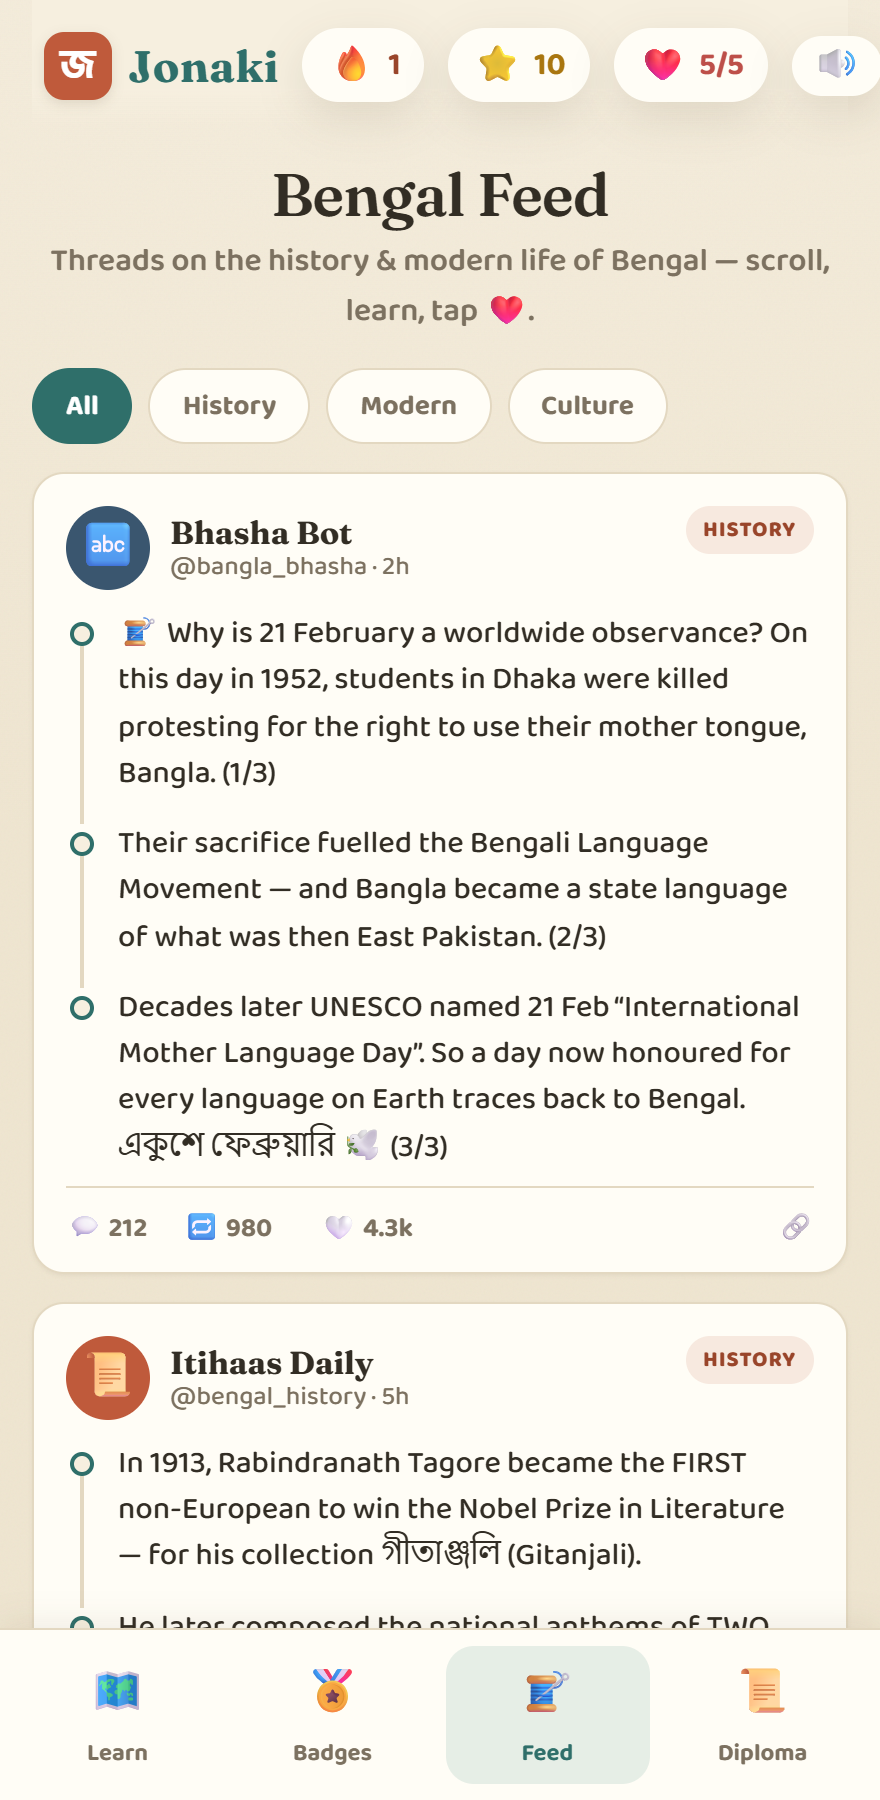
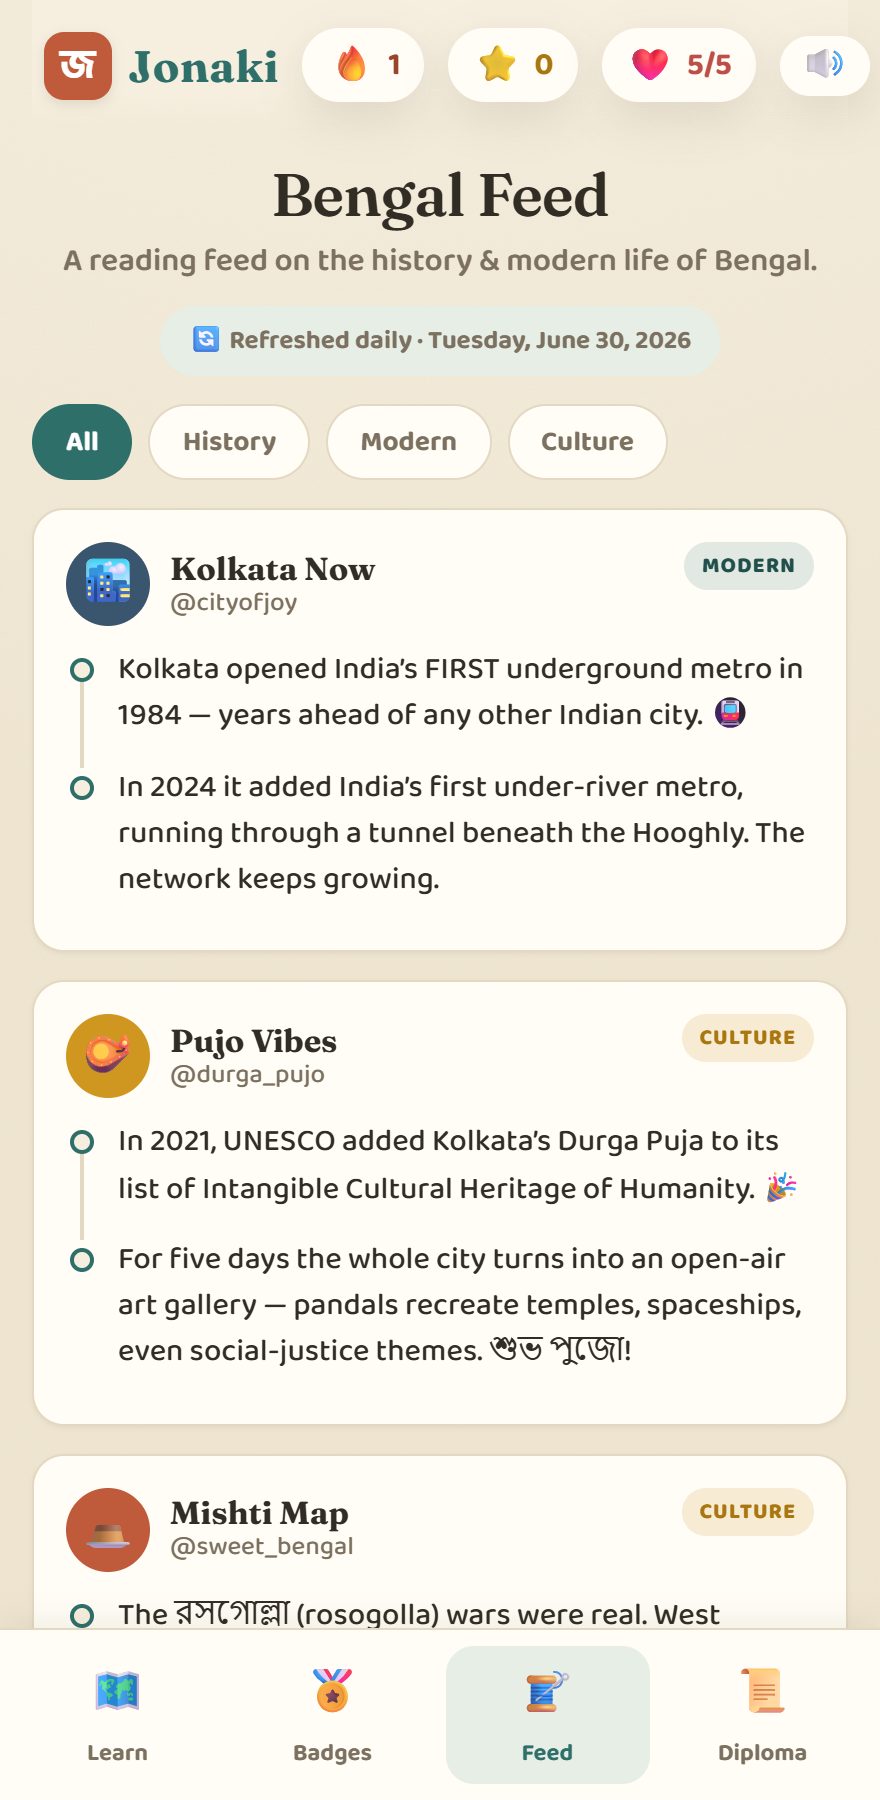
Feed: read-only cards + daily reshuffle; finalize Pages config & README

Changed region(s): [[0.0307, 0.1244, 0.9818, 0.9022], [0.6136, 0.0, 1.0, 0.0622]]

diff --git a/src/components/Feed.jsx b/src/components/Feed.jsx
@@ -1,13 +1,28 @@
-import { useState } from 'react'
+import { useMemo, useState } from 'react'
 import { THREADS, FEED_FILTERS } from '../data/feed.js'
 
-function fmt(n) {
-  return n >= 1000 ? `${(n / 1000).toFixed(1).replace(/\.0$/, '')}k` : `${n}`
+// Tiny seeded PRNG so the daily order is stable within a day but changes each day.
+function mulberry32(a) {
+  return function () {
+    a |= 0
+    a = (a + 0x6d2b79f5) | 0
+    let t = Math.imul(a ^ (a >>> 15), 1 | a)
+    t = (t + Math.imul(t ^ (t >>> 7), 61 | t)) ^ t
+    return ((t ^ (t >>> 14)) >>> 0) / 4294967296
+  }
+}
+
+function shuffleSeeded(arr, seed) {
+  const rand = mulberry32(seed)
+  const a = arr.slice()
+  for (let i = a.length - 1; i > 0; i--) {
+    const j = Math.floor(rand() * (i + 1))
+    ;[a[i], a[j]] = [a[j], a[i]]
+  }
+  return a
 }
 
 function Thread({ thread }) {
-  const [liked, setLiked] = useState(false)
-  const likeCount = thread.likes + (liked ? 1 : 0)
   const multi = thread.posts.length > 1
   return (
     <article className="thread">
@@ -15,7 +30,7 @@ function Thread({ thread }) {
         <div className={`t-avatar av-${thread.author.color}`}>{thread.author.emoji}</div>
         <div className="t-id">
           <span className="t-name">{thread.author.name}</span>
-          <span className="t-handle">@{thread.author.handle} · {thread.time}</span>
+          <span className="t-handle">@{thread.author.handle}</span>
         </div>
         <span className={`t-cat cat-${thread.category}`}>{thread.category}</span>
       </header>
@@ -28,32 +43,38 @@ function Thread({ thread }) {
           </div>
         ))}
       </div>
-
-      <footer className="thread-actions">
-        <span className="t-action" title="Replies">💬 {fmt(thread.replies)}</span>
-        <span className="t-action" title="Reposts">🔁 {fmt(thread.reposts)}</span>
-        <button
-          className={`t-action like ${liked ? 'on' : ''}`}
-          onClick={() => setLiked((v) => !v)}
-          title="Like"
-        >
-          {liked ? '❤️' : '🤍'} {fmt(likeCount)}
-        </button>
-        <span className="t-action" title="Share">🔗</span>
-      </footer>
     </article>
   )
 }
 
 export function Feed() {
   const [filter, setFilter] = useState('all')
-  const shown = filter === 'all' ? THREADS : THREADS.filter((t) => t.category === filter)
+
+  // Reshuffle once per day (days since the Unix epoch as the seed).
+  const { ordered, dateLabel } = useMemo(() => {
+    const now = new Date()
+    const daySeed = Math.floor(now.getTime() / 86_400_000)
+    return {
+      ordered: shuffleSeeded(THREADS, daySeed),
+      dateLabel: now.toLocaleDateString(undefined, {
+        weekday: 'long',
+        day: 'numeric',
+        month: 'long',
+        year: 'numeric',
+      }),
+    }
+  }, [])
+
+  const shown = filter === 'all' ? ordered : ordered.filter((t) => t.category === filter)
+
   return (
     <div>
       <div className="hero">
         <h1>Bengal Feed</h1>
-        <p>Threads on the history &amp; modern life of Bengal — scroll, learn, tap ❤️.</p>
+        <p>A reading feed on the history &amp; modern life of Bengal.</p>
       </div>
+
+      <div className="feed-date">🔄 Refreshed daily · {dateLabel}</div>
 
       <div className="feed-filters">
         {FEED_FILTERS.map((f) => (

diff --git a/src/data/feed.js b/src/data/feed.js
@@ -1,6 +1,7 @@
-// "Bengal Feed" — a threads-style feed of facts about Bengal, past and present.
-// Each thread has one or more connected posts (1/n style). Engagement numbers are
-// illustrative. category ∈ history | modern | culture.
+// "Bengal Feed" — a read-only, threads-style feed of facts about Bengal, past and
+// present. Each thread has one or more connected posts (1/n style). The Feed
+// component reshuffles the order once per day so it feels fresh on return visits.
+// category ∈ history | modern | culture.
 
 export const FEED_FILTERS = [
   { id: 'all', label: 'All' },
@@ -14,109 +15,89 @@ export const THREADS = [
     id: 't-mld',
     category: 'history',
     author: { name: 'Bhasha Bot', handle: 'bangla_bhasha', emoji: '🔤', color: 'indigo' },
-    time: '2h',
     posts: [
       '🧵 Why is 21 February a worldwide observance? On this day in 1952, students in Dhaka were killed protesting for the right to use their mother tongue, Bangla. (1/3)',
       'Their sacrifice fuelled the Bengali Language Movement — and Bangla became a state language of what was then East Pakistan. (2/3)',
       'Decades later UNESCO named 21 Feb “International Mother Language Day”. So a day now honoured for every language on Earth traces back to Bengal. একুশে ফেব্রুয়ারি 🕊️ (3/3)',
     ],
-    likes: 4280, replies: 212, reposts: 980,
   },
   {
     id: 't-tagore',
     category: 'history',
     author: { name: 'Itihaas Daily', handle: 'bengal_history', emoji: '📜', color: 'terracotta' },
-    time: '5h',
     posts: [
       'In 1913, Rabindranath Tagore became the FIRST non-European to win the Nobel Prize in Literature — for his collection গীতাঞ্জলি (Gitanjali).',
       'He later composed the national anthems of TWO countries: India’s “Jana Gana Mana” and Bangladesh’s “Amar Shonar Bangla”. Still the only person ever to do so. 🇮🇳🇧🇩',
     ],
-    likes: 6110, replies: 343, reposts: 1500,
   },
   {
     id: 't-bose',
     category: 'history',
     author: { name: 'Science Adda', handle: 'boson_facts', emoji: '⚛️', color: 'teal' },
-    time: '8h',
     posts: [
       'Ever heard of the “boson”? It’s named after Satyendra Nath Bose, a Bengali physicist whose 1924 work with Einstein gave us Bose–Einstein statistics. 🧪',
       'Another Bengali, Jagadish Chandra Bose, demonstrated radio waves before Marconi’s patent and pioneered the study of how plants respond to stimuli. 🌱',
     ],
-    likes: 3320, replies: 121, reposts: 720,
   },
   {
     id: 't-metro',
     category: 'modern',
     author: { name: 'Kolkata Now', handle: 'cityofjoy', emoji: '🏙️', color: 'indigo' },
-    time: '12h',
     posts: [
       'Kolkata opened India’s FIRST underground metro in 1984 — years ahead of any other Indian city. 🚇',
       'In 2024 it added India’s first under-river metro, running through a tunnel beneath the Hooghly. The network keeps growing.',
     ],
-    likes: 2140, replies: 96, reposts: 410,
   },
   {
     id: 't-pujo',
     category: 'culture',
     author: { name: 'Pujo Vibes', handle: 'durga_pujo', emoji: '🪔', color: 'marigold' },
-    time: '1d',
     posts: [
       'In 2021, UNESCO added Kolkata’s Durga Puja to its list of Intangible Cultural Heritage of Humanity. 🎉',
       'For five days the whole city turns into an open-air art gallery — pandals recreate temples, spaceships, even social-justice themes. শুভ পুজো!',
     ],
-    likes: 5410, replies: 264, reposts: 1200,
   },
   {
     id: 't-rosogolla',
     category: 'culture',
     author: { name: 'Mishti Map', handle: 'sweet_bengal', emoji: '🍮', color: 'terracotta' },
-    time: '1d',
     posts: [
       'The রসগোল্লা (rosogolla) wars were real. West Bengal and Odisha both claimed the sweet — in 2017, Bengal won a Geographical Indication tag for “Banglar Rosogolla”. 🥇',
       'Pair it with a clay cup of কড়া দুধের চা, or finish a meal the Bengali way with মিষ্টি দই (sweet yogurt).',
     ],
-    likes: 2890, replies: 176, reposts: 330,
   },
   {
     id: 't-muslin',
     category: 'history',
     author: { name: 'Itihaas Daily', handle: 'bengal_history', emoji: '📜', color: 'terracotta' },
-    time: '2d',
     posts: [
       'Before polyester, Bengal wove “Dhaka muslin” — cotton so fine a full sari could be drawn through a finger ring. 🪡',
       'It was prized across the Roman and Mughal worlds. The craft was nearly lost under colonial rule, but weavers in Bangladesh are reviving it today.',
     ],
-    likes: 3950, replies: 201, reposts: 880,
   },
   {
     id: 't-sundarban',
     category: 'modern',
     author: { name: 'Sundarban Watch', handle: 'royal_bengal', emoji: '🐅', color: 'good' },
-    time: '2d',
     posts: [
       'Shared by India and Bangladesh, the Sundarbans is the world’s largest mangrove forest — and the only mangrove home of the Royal Bengal Tiger. 🐅🌿',
       'It’s a natural storm-shield for millions of people, and a UNESCO World Heritage Site on both sides of the border.',
     ],
-    likes: 3120, replies: 88, reposts: 540,
   },
   {
     id: 't-quote',
     category: 'culture',
     author: { name: 'Robi Thakur Lines', handle: 'tagore_lines', emoji: '🎼', color: 'indigo' },
-    time: '3d',
     posts: [
       '“যেখানে দেখিবে ছাই, উড়াইয়া দেখ তাই” — wherever you see ash, blow on it and look; you may yet find a gem. A line from Tagore on seeking value everywhere. ✨',
     ],
-    likes: 4700, replies: 150, reposts: 1100,
   },
   {
     id: 't-online',
     category: 'modern',
     author: { name: 'Digital Bangla', handle: 'digital_bangla', emoji: '📱', color: 'teal' },
-    time: '4d',
     posts: [
       'Bangla is among the top 7 most-spoken languages on Earth, with 270M+ speakers across Bangladesh and eastern India — and one of the fastest-growing language communities online. 🌐',
     ],
-    likes: 2210, replies: 71, reposts: 300,
   },
 ]

diff --git a/src/index.css b/src/index.css
@@ -597,12 +597,24 @@ button {
 }
 .fchip.on { color: #fff; background: var(--teal); border-color: var(--teal); }
 
+.feed-date {
+  text-align: center;
+  font-size: 13px;
+  font-weight: 700;
+  color: var(--ink-soft);
+  background: var(--mint);
+  border-radius: 999px;
+  padding: 7px 14px;
+  margin: 0 auto 14px;
+  width: fit-content;
+}
+
 .feed { display: flex; flex-direction: column; gap: 14px; }
 .thread {
   background: var(--paper);
   border: 1.5px solid var(--line);
   border-radius: 16px;
-  padding: 16px 16px 10px;
+  padding: 16px;
   box-shadow: 0 1px 2px rgba(58, 42, 18, 0.06);
 }
 .thread-head { display: flex; align-items: center; gap: 10px; }
@@ -643,16 +655,6 @@ button {
   width: 12px; height: 12px; border-radius: 50%;
   background: var(--cream); border: 2px solid var(--teal);
 }
-
-.thread-actions {
-  display: flex; align-items: center; gap: 18px;
-  padding-top: 8px; border-top: 1px solid var(--line); margin-top: 6px;
-}
-.t-action { color: var(--ink-soft); font-size: 13.5px; font-weight: 700; }
-.t-action.like.on { color: var(--bad); }
-.t-action.like { transition: transform 0.08s ease; }
-.t-action.like:active { transform: scale(1.2); }
-.thread-actions .t-action:last-child { margin-left: auto; }
 
 /* certificate */
 .cert {

diff --git a/README.md b/README.md
@@ -6,7 +6,7 @@
 
 *“Jonaki” means **firefly** — a little light to guide you through the script.*
 
-🔗 **Live demo:** `https://<your-username>.github.io/jonaki/`
+🔗 **Live demo:** https://ash-codess.github.io/Jonaki/
 
 </div>
 
@@ -23,7 +23,7 @@
 - **8 progressive levels, 62 lessons** — from the script (vowels, consonants, the *matra* vowel-sign system, conjuncts) through vocabulary, grammar, conversation, and reading & writing. Aimed at a solid **A2** foundation.
 - **7 exercise types**, mixed throughout: multiple choice, match script-to-sound, type the Bengali word, audio recognition, tap-to-build sentences, **trace-the-letter** (canvas), and **speaking** practice.
 - **Gamified**: XP, a day-streak flame, a hearts/lives system, a unique **badge per level**, a node-based **winding path map**, confetti and synthesized **sound effects** (correct / wrong / lesson-complete), plus a mute toggle.
-- **Bengal Feed** 🧵 — a threads-style feed of facts about Bengal’s history and modern life (the Language Movement, Tagore, the boson, Kolkata’s metro, Durga Puja, Dhaka muslin…).
+- **Bengal Feed** 🧵 — a read-only, threads-style feed of facts about Bengal’s history and modern life (the Language Movement, Tagore, the boson, Kolkata’s metro, Durga Puja, Dhaka muslin…), **reshuffled daily** so there’s something new each visit.
 - **Downloadable certificate** — a shareable PNG with your name, the date, and a Bengali calligraphy flourish, unlocked after all 8 levels.
 - **“Did You Know?”** culture cards woven into the path between levels.
 - **Resume where you left off**, per-level and overall progress, all in memory.
@@ -67,22 +67,16 @@ To publish for the first time, see **[Publishing](#-publishing)** below. After t
 
 ## 📦 Publishing
 
-> Requires a GitHub account. GitHub Pages is free for **public** repositories.
-
-**With the GitHub CLI** (`gh`):
+> GitHub Pages is free for **public** repositories.
 
 ```bash
-gh repo create jonaki --public --source=. --remote=origin --push
-```
-
-**Without `gh`** — create an empty repo named `jonaki` on github.com, then:
-
-```bash
-git remote add origin https://github.com/<your-username>/jonaki.git
+git remote add origin https://github.com/ash-codess/Jonaki.git
 git push -u origin main
 ```
 
-Then open the repo’s **Actions** tab to watch the deploy, and find the live URL under **Settings → Pages**.
+Pushing to `main` triggers the **Deploy to GitHub Pages** workflow, which builds the app
+and publishes it. Watch progress in the repo’s **Actions** tab; the live URL appears under
+**Settings → Pages**.
 
 ## 🔊 A note on audio
 